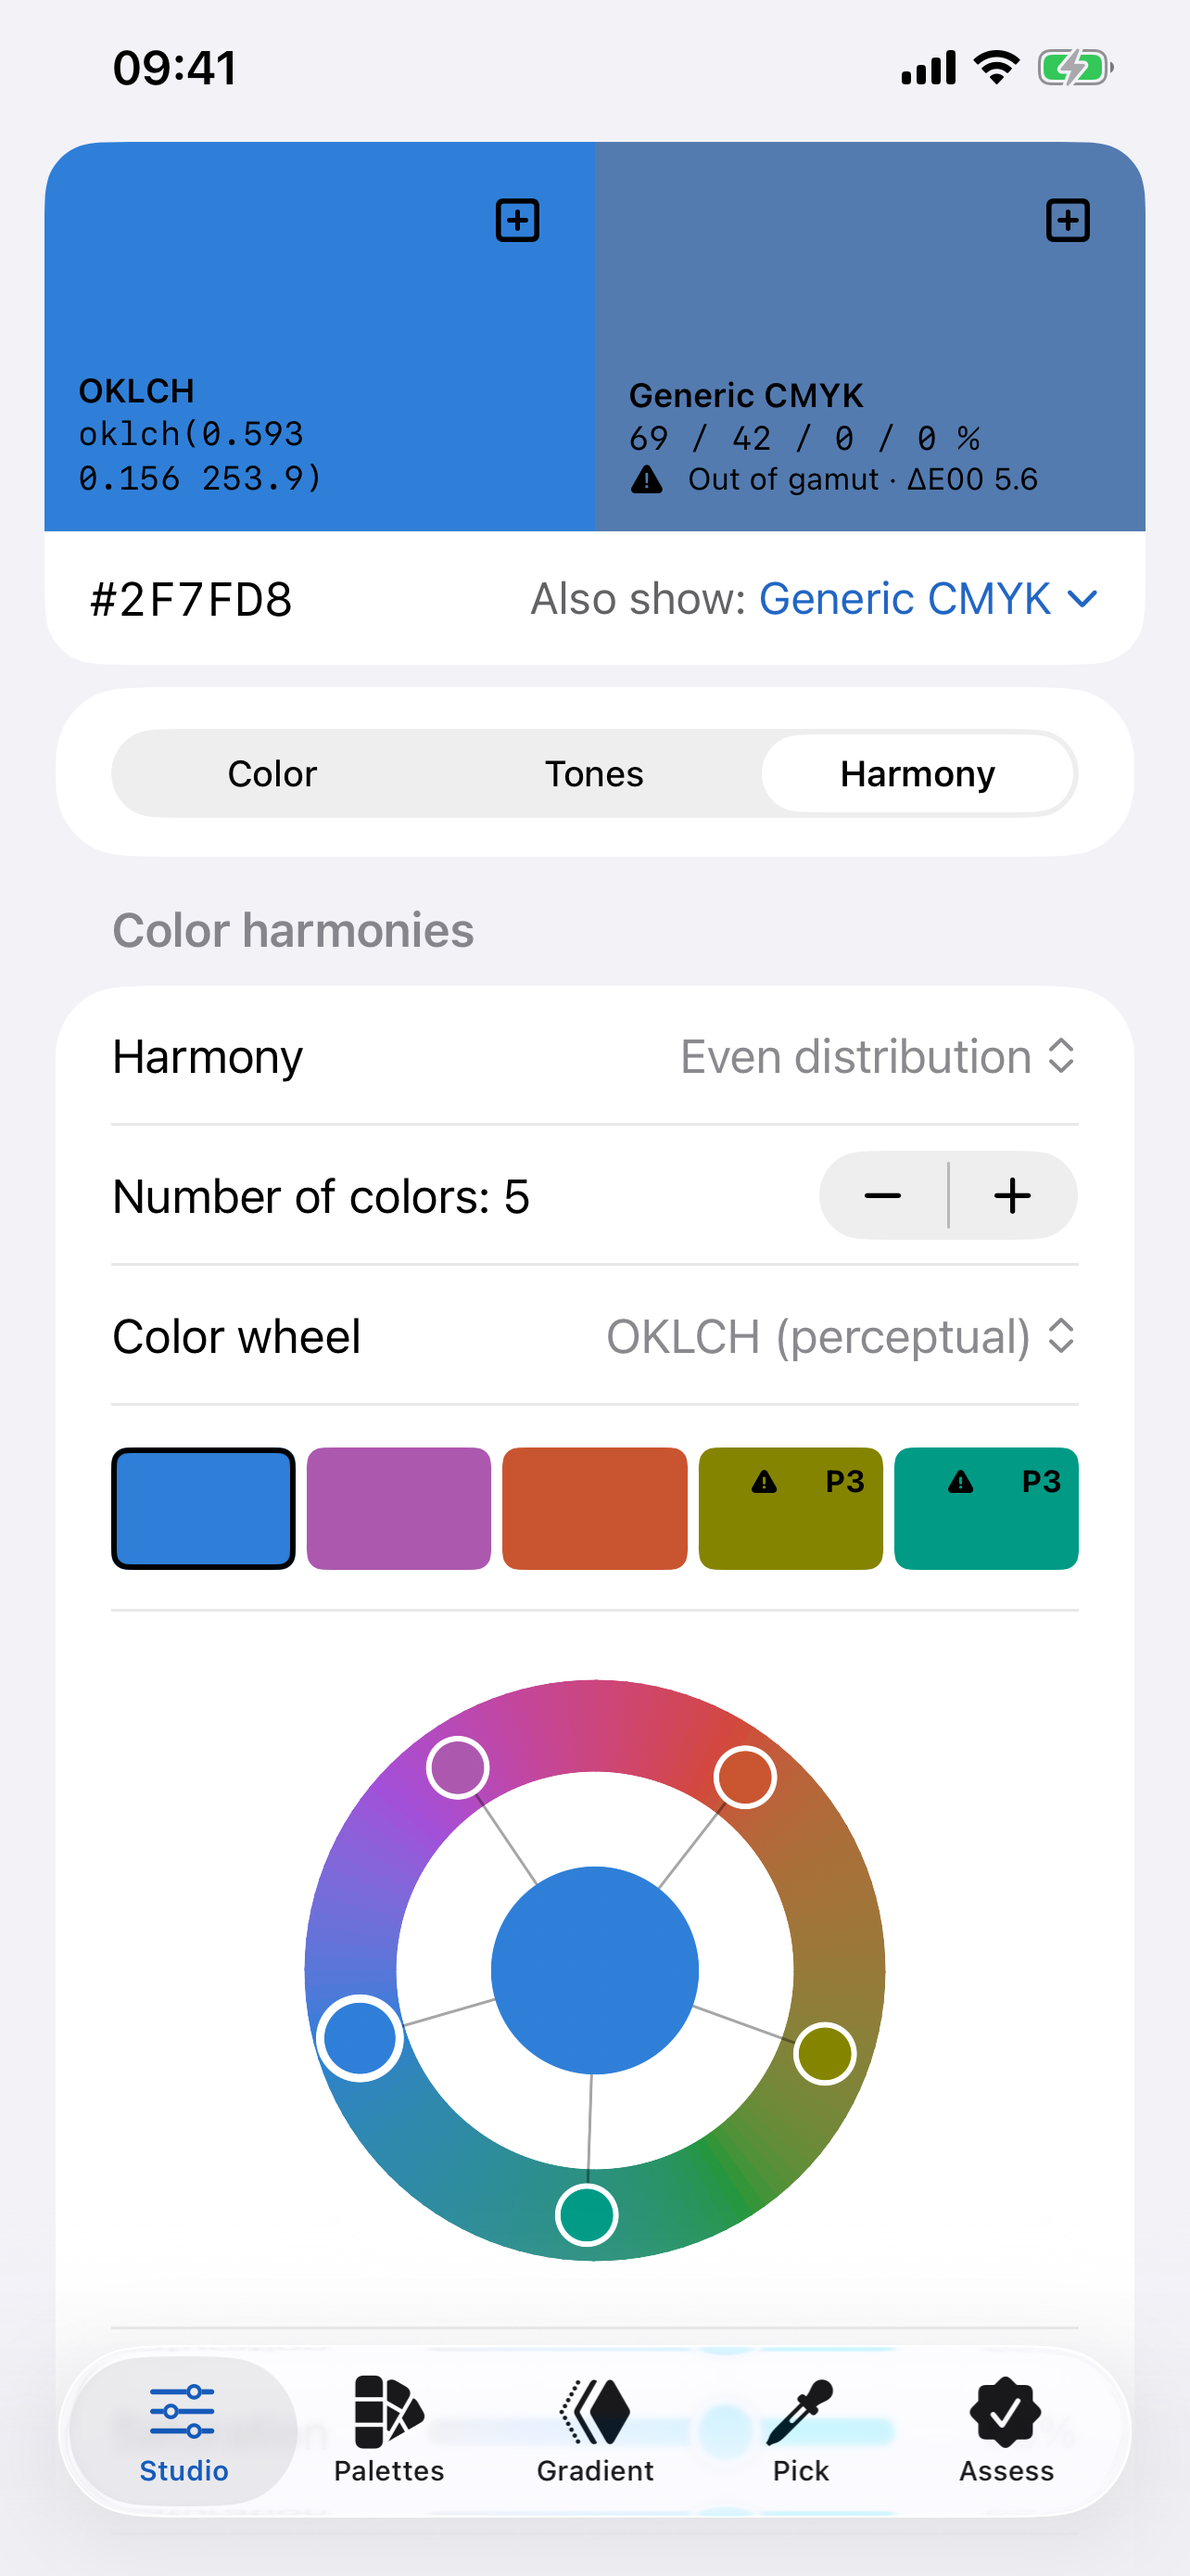
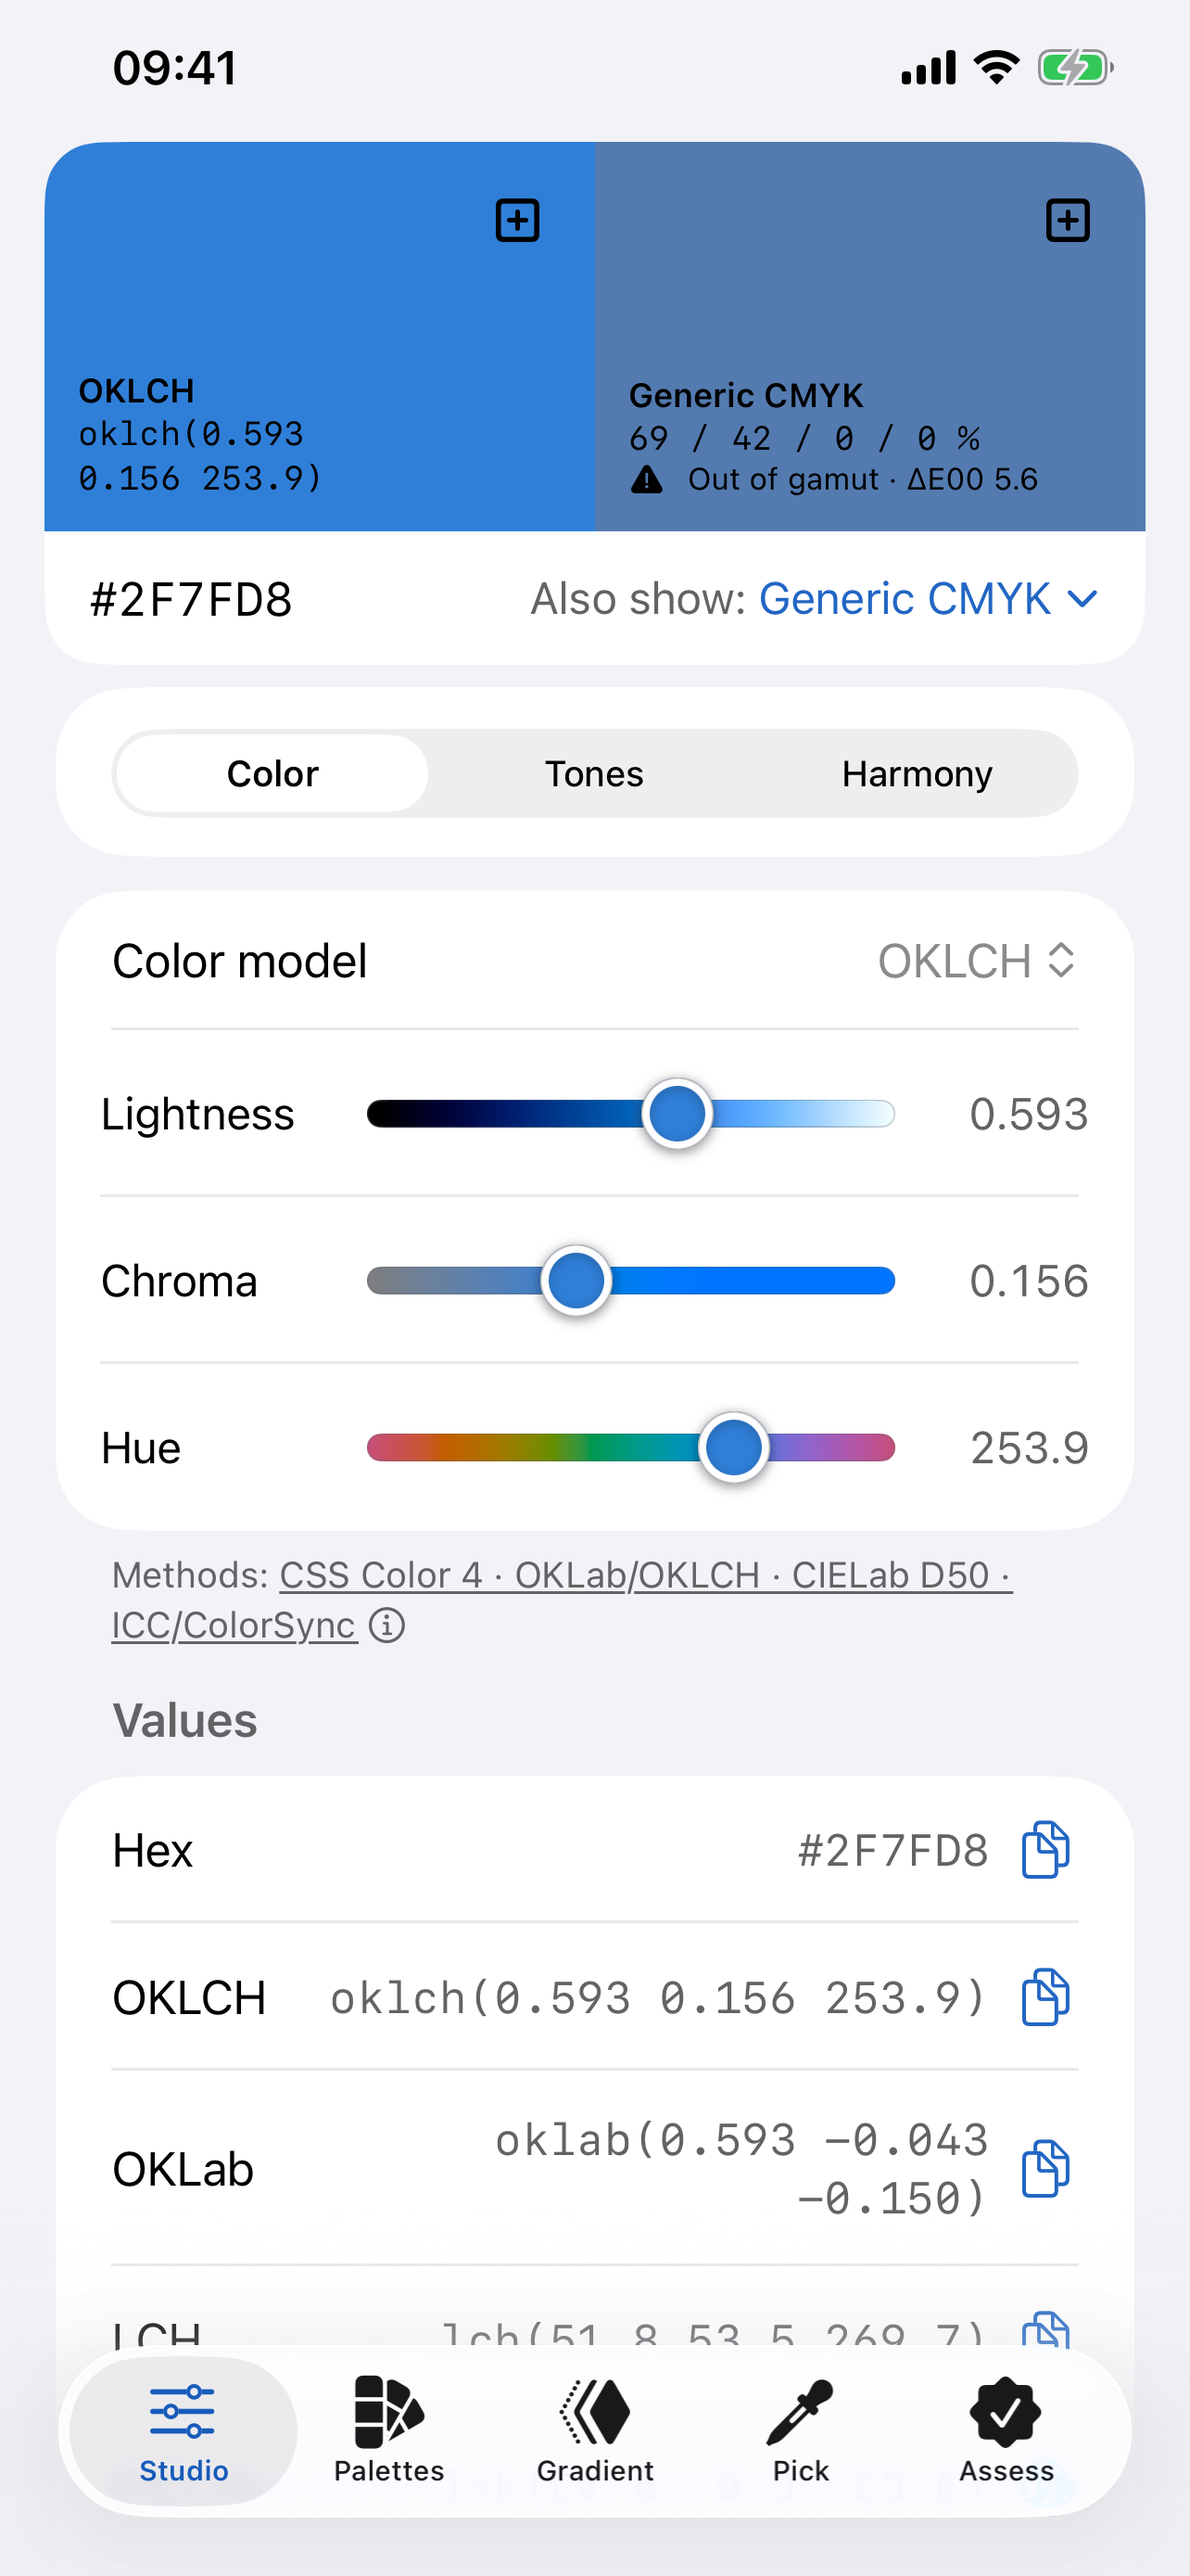
Skjermbilder for iPad og Mac (nb/en), engelsk Studio i Farge-modus, og Mac-tekster
Debug-bygg har skjermbildemodus: -startfane velger fane, -skjermbilde YES skrur av
fokusmarkeringer og lager harmonipaletten som Fargesyn viser.
App Store-teksten nevner ikke annen programvare ved navn.

diff --git a/Kolorist/App/KoloristApp.swift b/Kolorist/App/KoloristApp.swift
@@ -18,6 +18,10 @@ struct KoloristApp: App {
             InnholdsVisning()
                 .environment(arbeidsbenk)
                 .environment(profiler)
+                #if DEBUG
+                .focusEffectDisabled(Skjermbildemodus.på)
+                .task { Skjermbildemodus.forbered(Lagring.container.mainContext) }
+                #endif
         }
         .modelContainer(Lagring.container)
         #if os(macOS)
@@ -85,7 +89,7 @@ final class Arbeidsbenk {
         return farge.begrenset(til: profil)
     }
     var modell: Fargemodell = .okLCH
-    var valgtFane: Fane = .studio
+    var valgtFane: Fane = Arbeidsbenk.startfane
     /// Lysere/mørkere-innstillinger, delt mellom Studio og Overgang og husket mellom oppstarter.
     var lyshetstrinn: Lyshetstrinn = Arbeidsbenk.lastTrinn() {
         didSet { try? UserDefaults.standard.set(JSONEncoder().encode(lyshetstrinn), forKey: "lyshetstrinn") }
@@ -96,7 +100,16 @@ final class Arbeidsbenk {
             ?? Lyshetstrinn()
     }
 
-    enum Fane: Hashable { case studio, paletter, overgang, utplukk, vurdering }
+    enum Fane: String, Hashable { case studio, paletter, overgang, utplukk, vurdering }
+
+    /// Debug: `-startfane overgang` åpner appen på en bestemt fane (brukes til skjermbilder).
+    private static var startfane: Fane {
+        #if DEBUG
+        UserDefaults.standard.string(forKey: "startfane").flatMap(Fane.init(rawValue:)) ?? .studio
+        #else
+        .studio
+        #endif
+    }
 
     /// Én arbeidsbenk for hele appen, så App Intents («Beskriv en farge») kan vise resultatet.
     static let delt = Arbeidsbenk()

diff --git a/Kolorist/App/Skjermbildemodus.swift b/Kolorist/App/Skjermbildemodus.swift
@@ -1,0 +1,24 @@
+#if DEBUG
+import FargeKjerne
+import SwiftData
+import SwiftUI
+
+/// Debug: `-skjermbilde YES` til App Store-skjermbilder. Skrur av fokusmarkeringer og sørger for at
+/// harmonipaletten «Jevn fordeling» (fem farger fra #2F7FD8) finnes og er valgt, så Vurdering › Fargesyn
+/// viser samme palett på alle plattformer. Kombineres med `-startfane` og `-studioModus`.
+enum Skjermbildemodus {
+    static var på: Bool { UserDefaults.standard.bool(forKey: "skjermbilde") }
+
+    static func forbered(_ kontekst: ModelContext) {
+        guard på else { return }
+        let navn = Harmoni.jevn.navn
+        let farger = Harmoni.jevn.farger(fra: Farge(hex: "#2F7FD8")!, antall: 5).map { $0.gamutKartlagt(til: .displayP3) }
+        let palett = (try? kontekst.fetch(FetchDescriptor<PalettDokument>()))?.first { $0.navn == navn }
+            ?? { let p = PalettDokument(navn: navn); kontekst.insert(p); return p }()
+        // Setter fargene på nytt hver gang, så paletten også blir sist endret og står først.
+        palett.farger = farger.map { PalettFarge(farge: $0, opphav: .manuell) }
+        try? kontekst.save()
+        UserDefaults.standard.set(palett.id.uuidString, forKey: "vurderingPalett")
+    }
+}
+#endif

diff --git a/Dokumentasjon/AppStore.md b/Dokumentasjon/AppStore.md
@@ -58,7 +58,7 @@ Fargepaletter for designere
 **Reklametekst (170)**
 
 ```
-Bygg paletter i OKLCH, CMYK og ICC-profiler, sjekk kontrast og fargesyn, og kopier fargene rett inn i Figma, Adobe-programmene, Keynote og Pages.
+Bygg paletter i OKLCH, CMYK med ICC-profiler, kontroller kontrast og fargesyn-problematikk, og kopier fargene rett inn i annen design-programvare.
 ```
 
 **Beskrivelse (4000)**
@@ -102,10 +102,10 @@ APPLE INTELLIGENCE PÅ ENHETEN
 Alt kjøres på enheten. Uten Apple Intelligence lages palettene direkte fra kunnskapsbasen.
 
 KOPIER TIL OG EKSPORT
-• «Kopier til» Figma, Illustrator, InDesign, Photoshop, Sketch, Affinity, Pages, Keynote og Numbers – i formatet hvert program tar imot, for enkeltfarger og hele paletter
+• «Kopier til» designverktøy, layoutprogrammer, bilderedigering og presentasjonsprogrammer – i formatet hvert program tar imot, for enkeltfarger og hele paletter
 • Dra fargeprøver rett inn i andre programmer på Mac
-• Eksport til Adobe ASE, Photoshop ACO, Figma-variabler (DTCG), Tokens Studio, SVG, CSS, Design Tokens, GIMP GPL, SwiftUI og hex
-• Fargene eksporteres i formatet de er lagret i – for eksempel CMYK til Adobe
+• Eksport til ASE- og ACO-fargeprøver, Design Tokens (DTCG), SVG, CSS, GPL, SwiftUI og hex
+• Fargene eksporteres i formatet de er lagret i – for eksempel som CMYK
 
 PALETTER OG ICLOUD
 Samle farger i paletter, lagre enkeltfarger og hele gradienter, og synkroniser via din egen, private iCloud.
@@ -143,7 +143,7 @@ Color palettes for designers
 **Promotional text (170)**
 
 ```
-Build palettes in OKLCH, CMYK and ICC profiles, check contrast and color vision, and copy colors straight into Figma, Adobe apps, Keynote and Pages.
+Build palettes in OKLCH, CMYK with ICC profiles, check for contrast and color vision challenges, and copy colors straight into other design software packages.
 ```
 
 **Description (4000)**
@@ -187,10 +187,10 @@ APPLE INTELLIGENCE ON DEVICE
 Everything runs on device. Without Apple Intelligence, palettes are built straight from the knowledge base.
 
 COPY TO AND EXPORT
-• “Copy to” Figma, Illustrator, InDesign, Photoshop, Sketch, Affinity, Pages, Keynote and Numbers – in the format each app accepts, for single colors and whole palettes
+• “Copy to” design tools, layout apps, photo editors and presentation apps – in the format each app accepts, for single colors and whole palettes
 • Drag swatches straight into other apps on Mac
-• Export to Adobe ASE, Photoshop ACO, Figma variables (DTCG), Tokens Studio, SVG, CSS, Design Tokens, GIMP GPL, SwiftUI and hex
-• Colors are exported in the format they were saved in – for example CMYK to Adobe
+• Export to ASE and ACO swatches, Design Tokens (DTCG), SVG, CSS, GPL, SwiftUI and hex
+• Colors are exported in the format they were saved in – for example as CMYK
 
 PALETTES AND ICLOUD
 Collect colors in palettes, save single colors and whole gradients, and sync through your own private iCloud.
@@ -214,6 +214,43 @@ color,palette,picker,OKLCH,CMYK,ICC,contrast,WCAG,gradient,eyedropper,harmony,co
 ```
 
 ---
+
+## 3b. Mac-versjonen (macOS)
+
+I App Store Connect har macOS sin egen versjonsside med egen beskrivelse, reklametekst, nøkkelord og
+skjermbilder. Navn og undertittel er felles (App-informasjon). iPad deler tekst med iPhone (iOS-versjonen).
+
+Bruk samme tekster som over, med disse endringene i beskrivelsen:
+
+| Norsk | Erstatt med |
+|---|---|
+| `Kolorist er et fargeverktøy for designere på iPhone, iPad og Mac.` | `Kolorist er et fargeverktøy for designere på Mac – og på iPhone og iPad med samme kjøp.` |
+| Hele «PLUKK FARGER»-blokken | `PLUKK FARGER` / `• Skjermpipette som plukker farger fra hele skjermen` / `• Bilder, med dominerende farger` / `• Kamera, også iPhone som kamera, med lysfelt på skjermen` |
+| `• Dra fargeprøver rett inn i andre programmer på Mac` | `• Dra fargeprøver rett inn i andre programmer` |
+| `Krever iOS 26, iPadOS 26 eller macOS 26.` | `Krever macOS 26. Apple Intelligence krever en Mac med Apple-chip.` |
+
+| Engelsk | Erstatt med |
+|---|---|
+| `Kolorist is a color tool for designers on iPhone, iPad and Mac.` | `Kolorist is a color tool for designers on Mac – and on iPhone and iPad with the same purchase.` |
+| Hele «PICK COLORS»-blokken | `PICK COLORS` / `• Screen eyedropper that picks colors from anywhere on screen` / `• Photos, with dominant colors` / `• Camera, including iPhone as a camera, with a light panel on screen` |
+| `• Drag swatches straight into other apps on Mac` | `• Drag swatches straight into other apps` |
+| `Requires iOS 26, iPadOS 26 or macOS 26.` | `Requires macOS 26. Apple Intelligence requires a Mac with Apple silicon.` |
+
+Reklametekst og nøkkelord kan være de samme som for iOS.
+
+## 3c. Skjermbilder
+
+Alle i `Dokumentasjon/Skjermbilder/`, fem per plattform og språk: Studio, Harmoni, Overgang, Kontrast, Fargesyn.
+
+| Mappe | Plattform | Størrelse |
+|---|---|---|
+| `nb/`, `en/` | iPhone 6,5" | 1284 × 2778 |
+| `ipad-nb/`, `ipad-en/` | iPad 13" | 2064 × 2752 |
+| `mac-nb/`, `mac-en/` | Mac | 2880 × 1800 |
+
+iPhone og iPad er tatt i simulatorene «Skjermbilder 6,5» (iPhone 14 Plus) og «Skjermbilder iPad 13» (iPad Pro 13"),
+begge iOS 26.5. Mac-bildene er vinduet alene (1440 × 900 pt), tatt fra et Debug-bygg med
+`-skjermbilde YES -startfane <fane>` (se `Kolorist/App/Skjermbildemodus.swift`).
 
 ## 4. App Review Information
 
@@ -271,9 +308,7 @@ Contact: eivind.johansen@ntnu.no
 - [ ] `ITSAppUsesNonExemptEncryption = NO` i Info.plist.
 - [ ] CloudKit-skjemaet er distribuert til produksjon (CloudKit Console › Deploy Schema Changes), ellers
       synkroniserer ikke TestFlight- og App Store-bygg.
-- [x] Skjermbilder iPhone 6,5" (1284 × 2778): `Dokumentasjon/Skjermbilder/nb/` og `en/` – Studio, Harmoni, Overgang,
-      Kontrast, Fargesyn. Tatt i simulatoren «Skjermbilder 6,5» (iPhone 14 Plus, iOS 26.5).
-- [ ] Skjermbilder iPad 13" (2064 × 2752) og Mac (2880 × 1800 e.l.).
+- [x] Skjermbilder for iPhone, iPad og Mac på norsk og engelsk (se 3c).
       Samme bilder kan legges inn på nettsiden der det står «Skjermbilde kommer».
 - [ ] Appikon 1024 × 1024 følger med i bygget (Icon Composer-ikonet).
 - [ ] App Store-ID inn på nettsiden (Smart App Banner) og «Kommer snart» byttes med App Store-lenke etter godkjenning.
